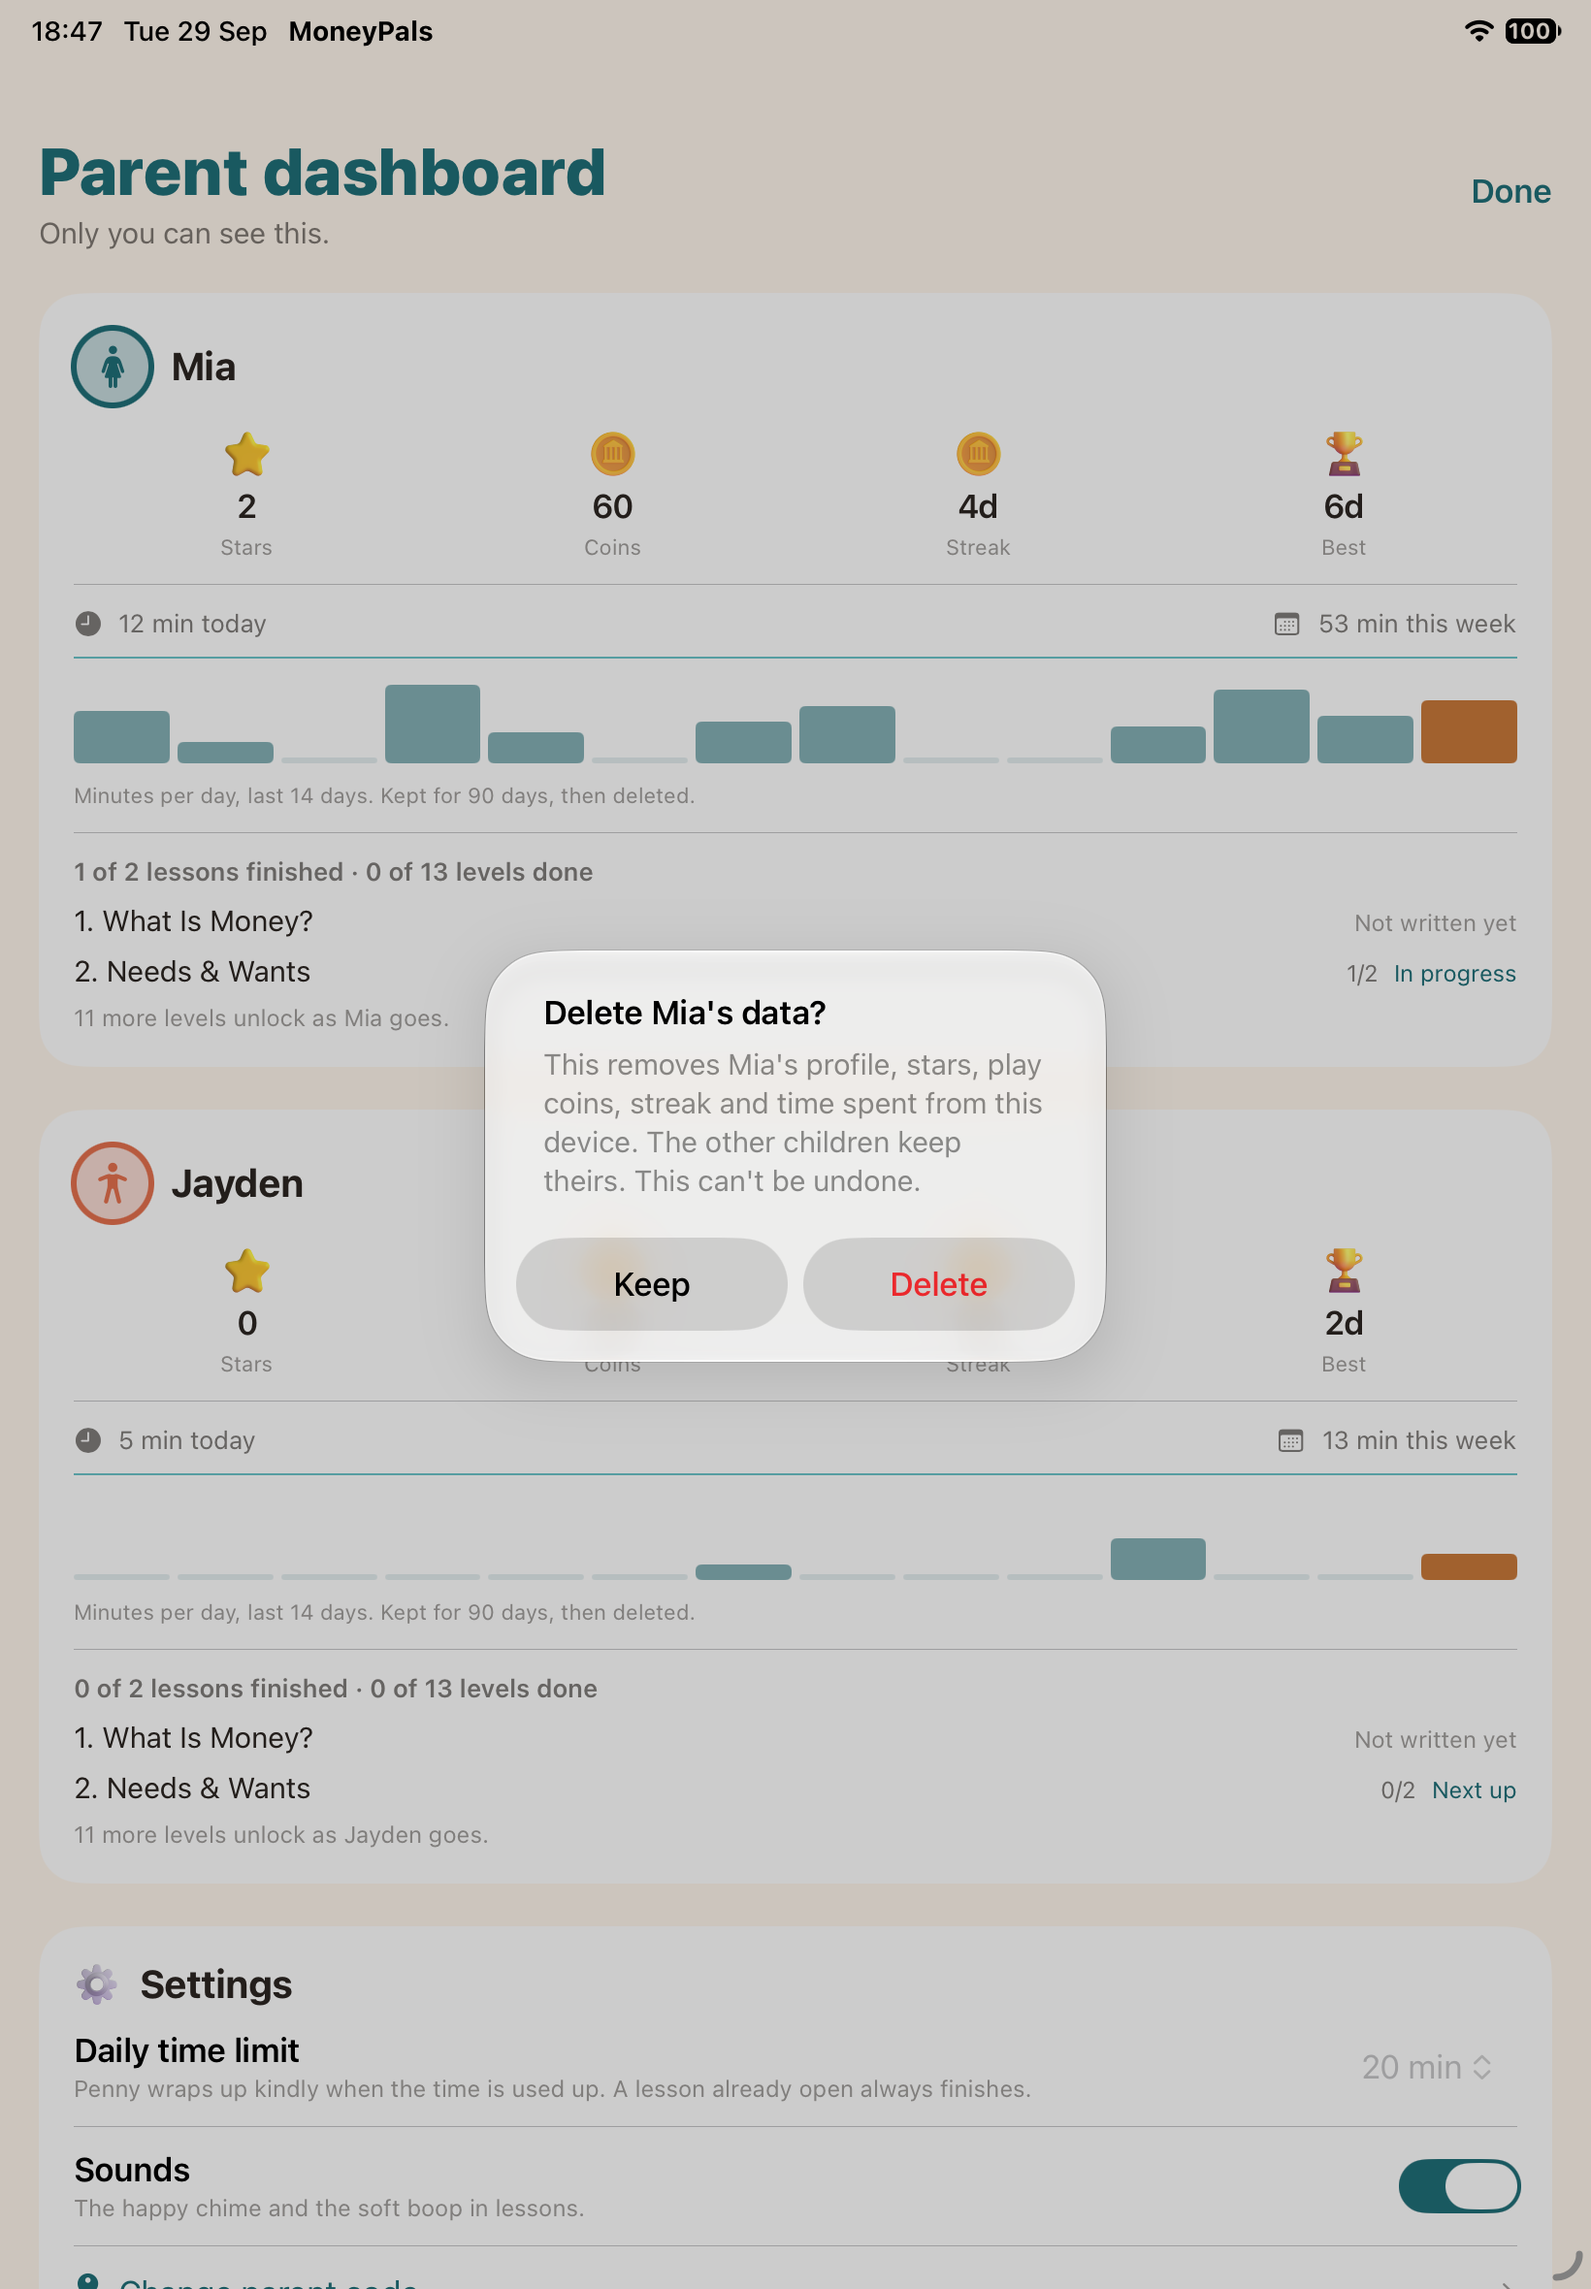
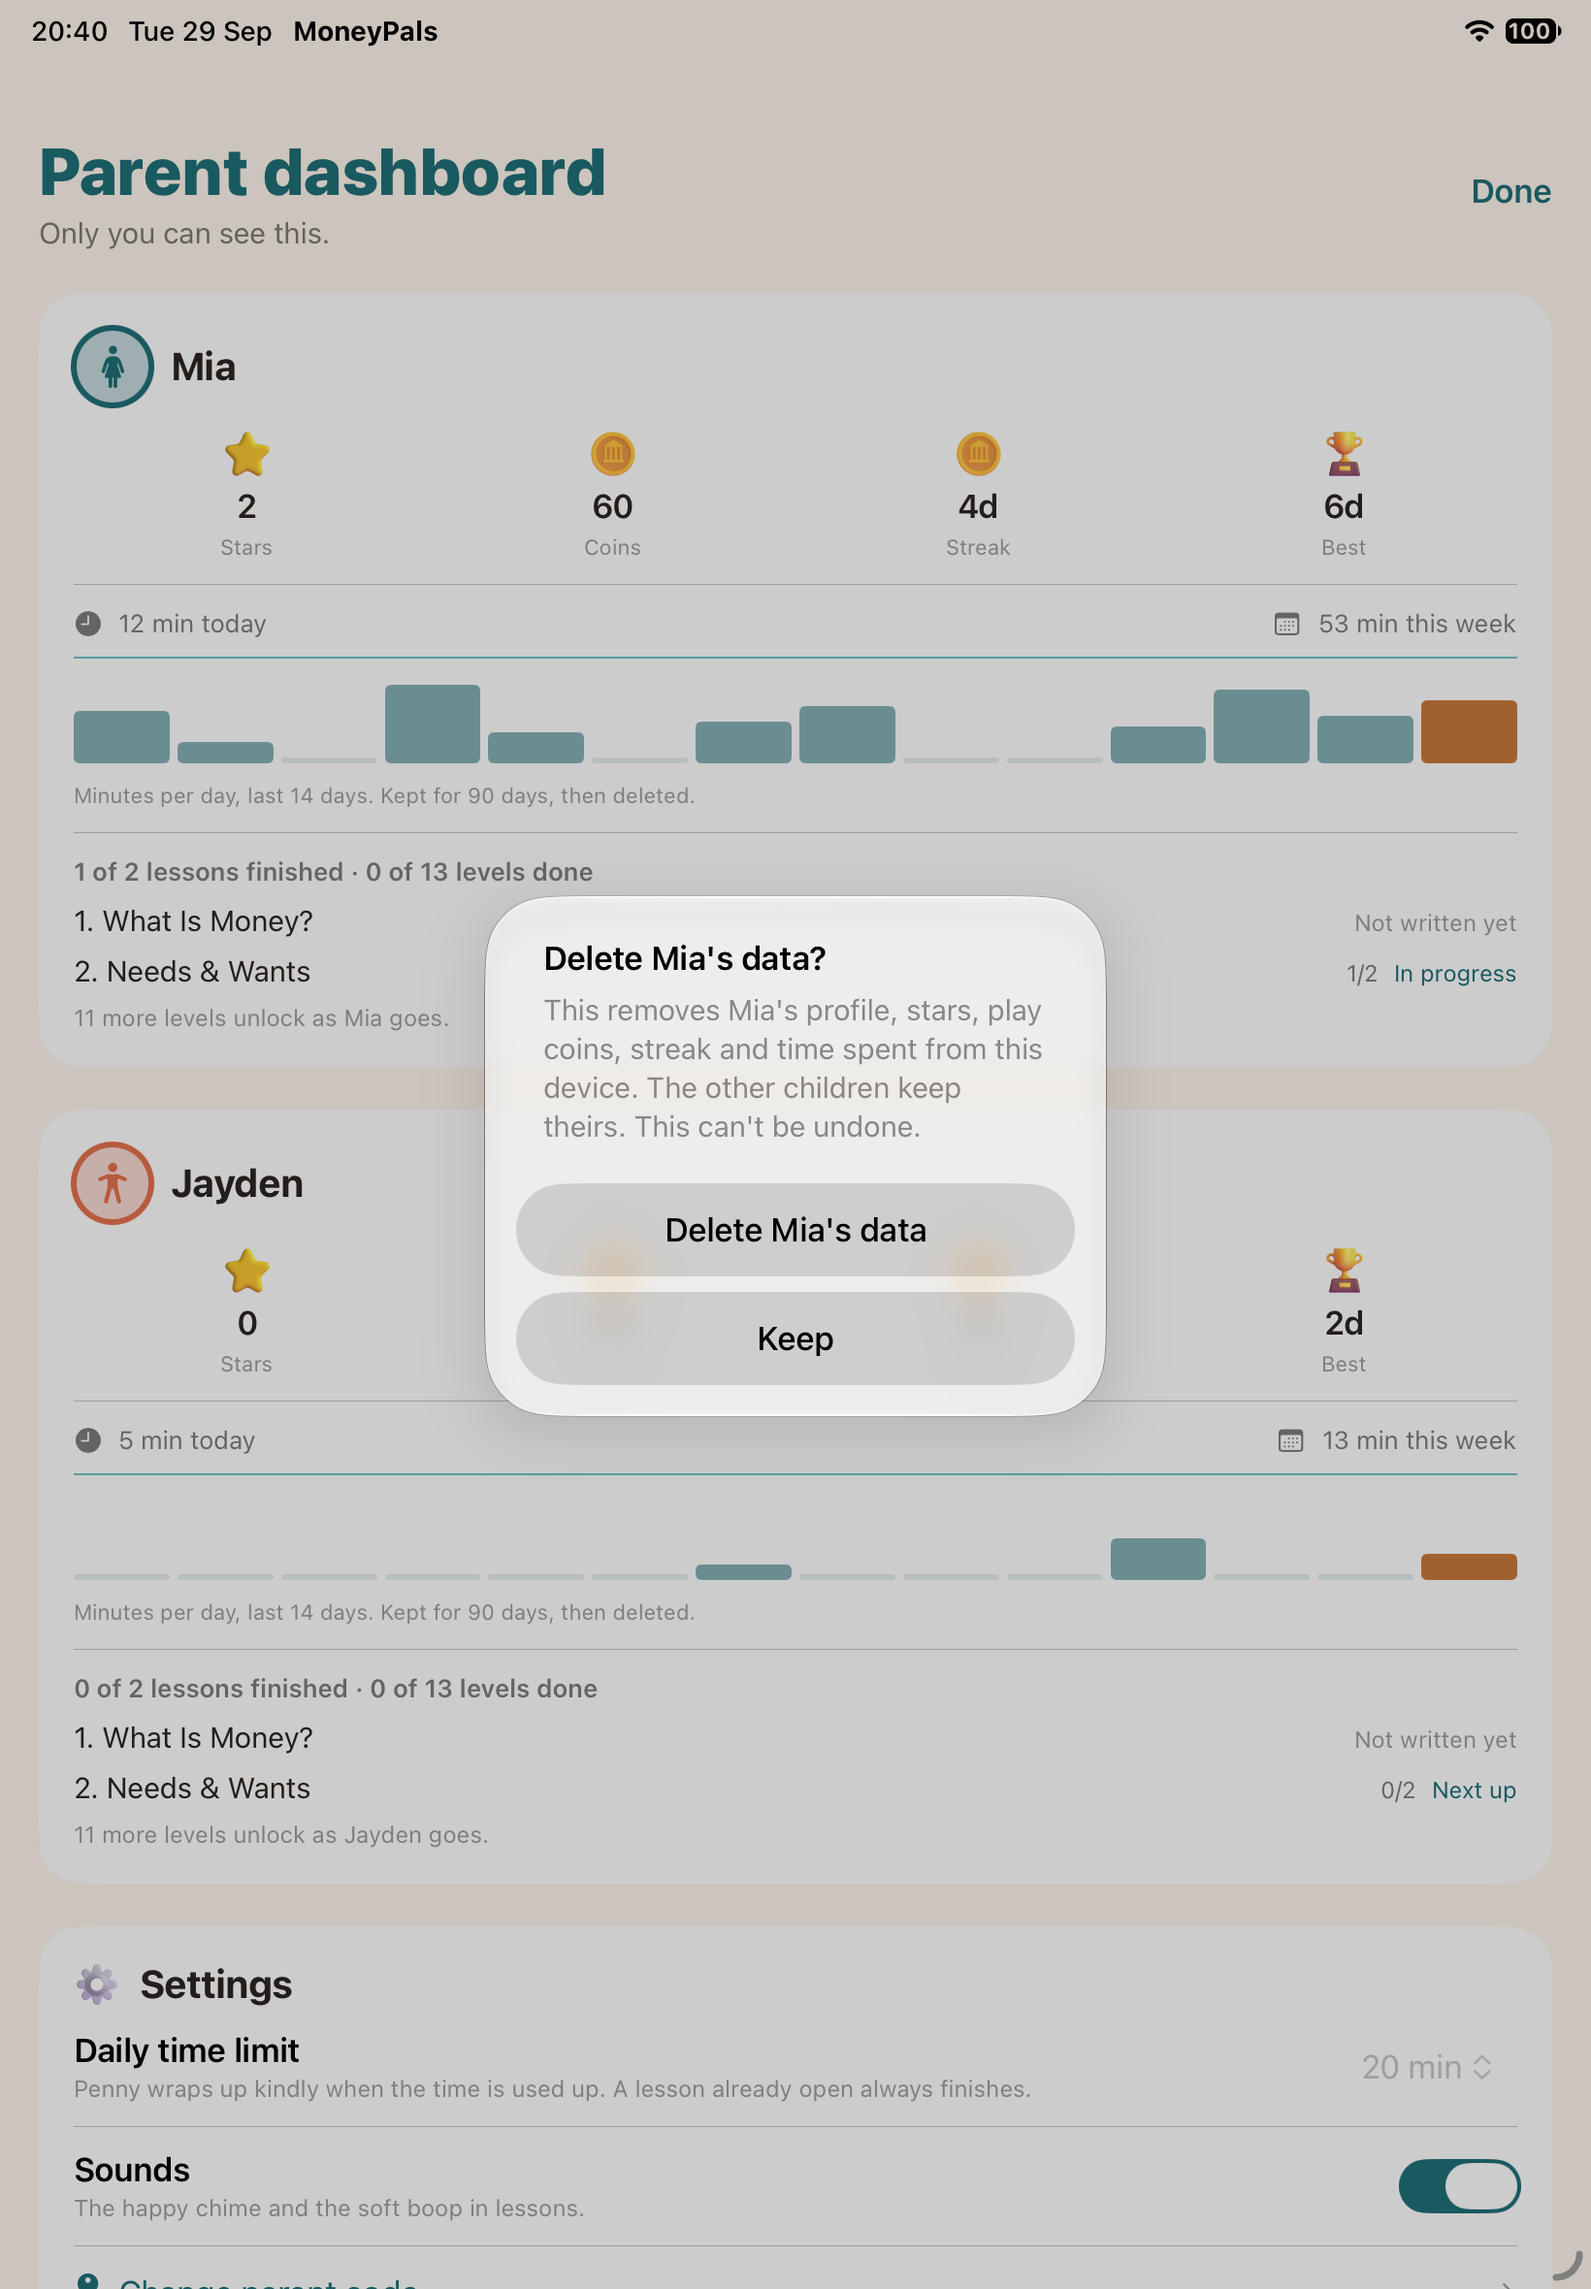
Take the red off the delete confirmations
"No red anywhere" is a hard brand rule (AGENTS.md), and the system
destructive role paints those buttons red. The warning now does the work
colour was doing: the button names exactly what it deletes ("Delete Mia's
data", "Delete everything"), the message still says it can't be undone,
and Keep stays the bold cancel default. Colour was never the only signal
in this app anyway (README section 3).

Screenshots of both confirmations retaken on iPhone and iPad; 50 tests
still pass.

Changed region(s): [[0.2799, 0.3712, 0.7152, 0.6186], [0.0311, 0.0, 0.2799, 0.0309]]

diff --git a/App/ParentDashboardView.swift b/App/ParentDashboardView.swift
@@ -178,11 +178,18 @@ struct ParentDashboardView: View {
         .sheet(isPresented: $changingCode) { ChangeParentCodeSheet() }
         // Deleting is irreversible and there is no backup anywhere, so each one
         // spells out exactly what goes before it happens (README section 6).
+        //
+        // No `role: .destructive` on the delete buttons: that renders them red,
+        // and "no red anywhere" is a hard brand rule. The warning does the work
+        // colour would have done — the button says exactly what it deletes, the
+        // message says it can't be undone, and `.cancel` makes Keep the bold
+        // default your thumb lands on. Colour was never the only signal here
+        // anyway (README section 3).
         .alert("Delete \(kidPendingDeletion?.name ?? "")'s data?",
                isPresented: Binding(get: { kidPendingDeletion != nil },
                                     set: { if !$0 { kidPendingDeletion = nil } }),
                presenting: kidPendingDeletion) { kid in
-            Button("Delete", role: .destructive) {
+            Button("Delete \(kid.name)'s data") {
                 app.deleteKid(kid.id)
                 kidPendingDeletion = nil
             }
@@ -191,7 +198,7 @@ struct ParentDashboardView: View {
             Text(deleteMessage(for: kid))
         }
         .alert("Delete everything?", isPresented: $confirmingDeleteAll) {
-            Button("Delete everything", role: .destructive) { app.deleteAllData() }
+            Button("Delete everything") { app.deleteAllData() }
             Button("Keep", role: .cancel) { }
         } message: {
             Text("""
